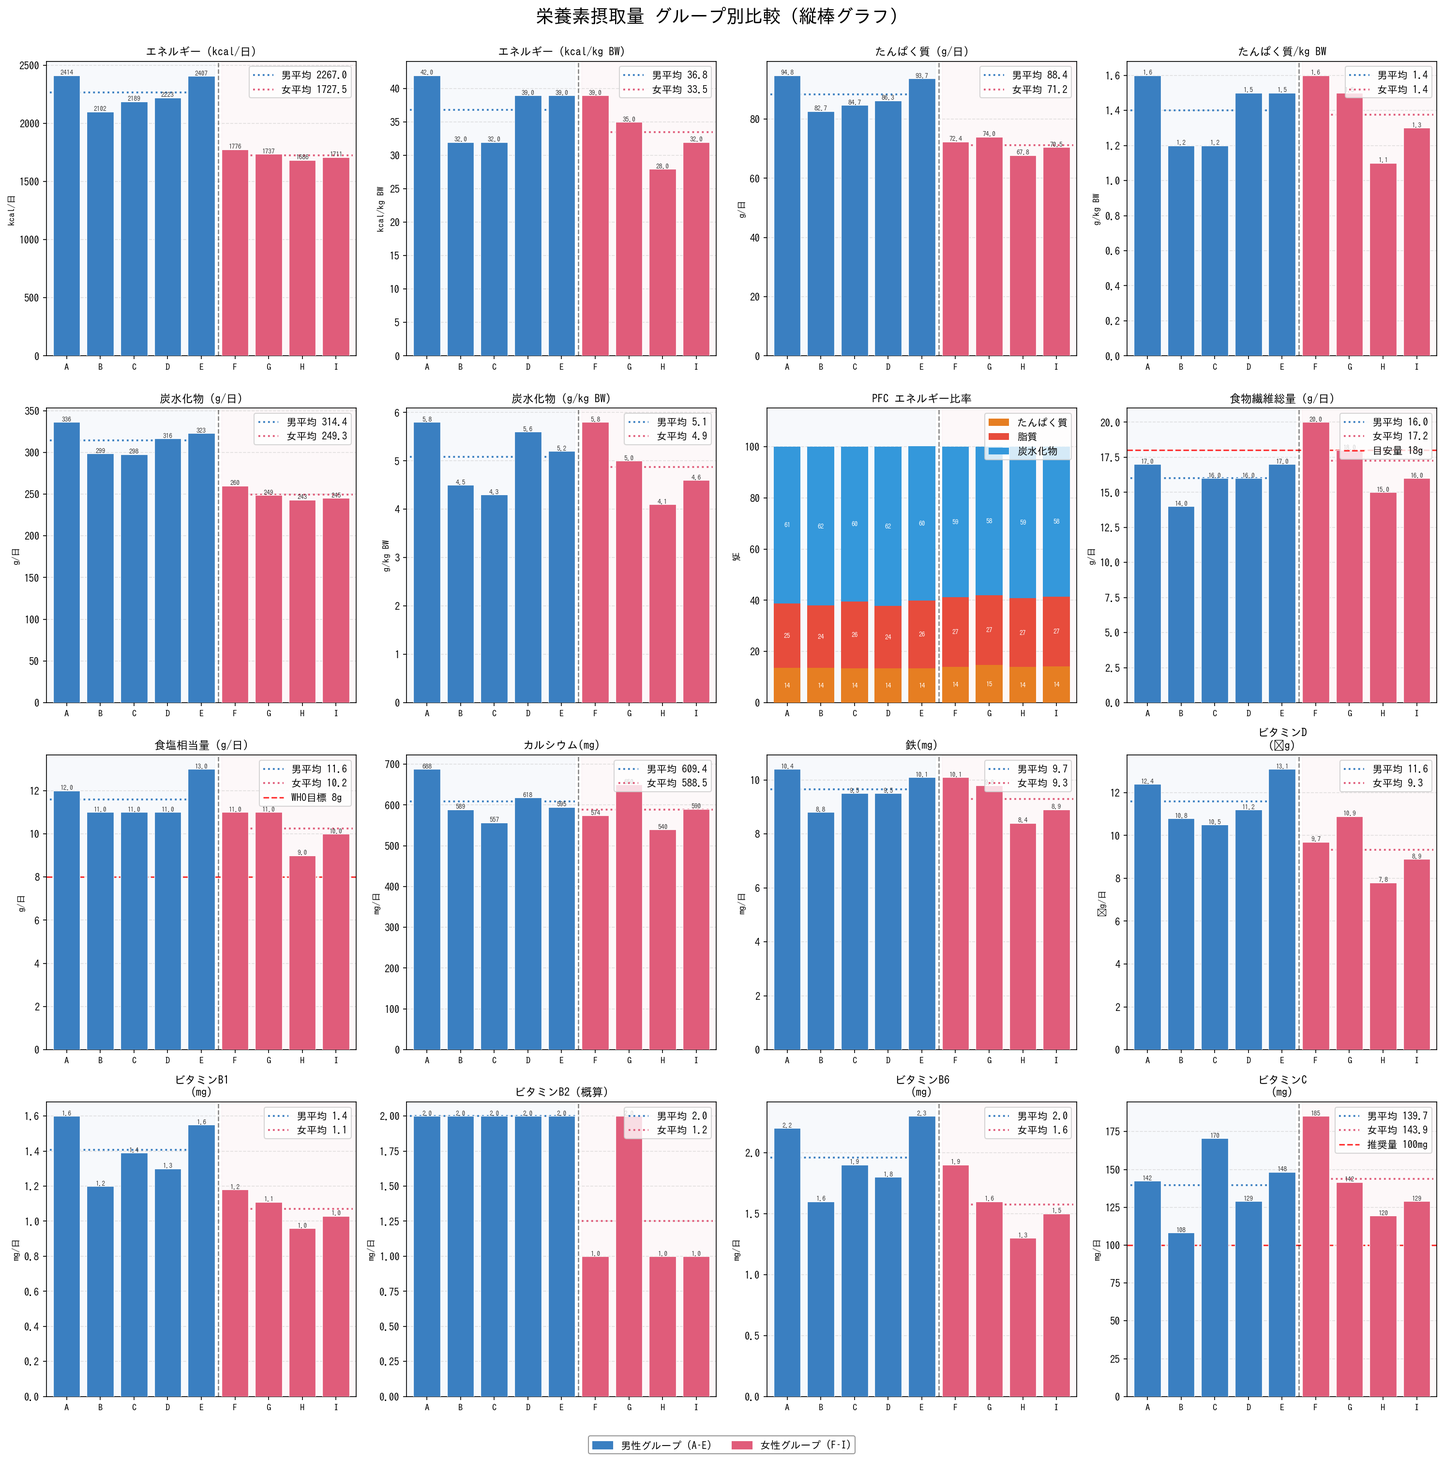
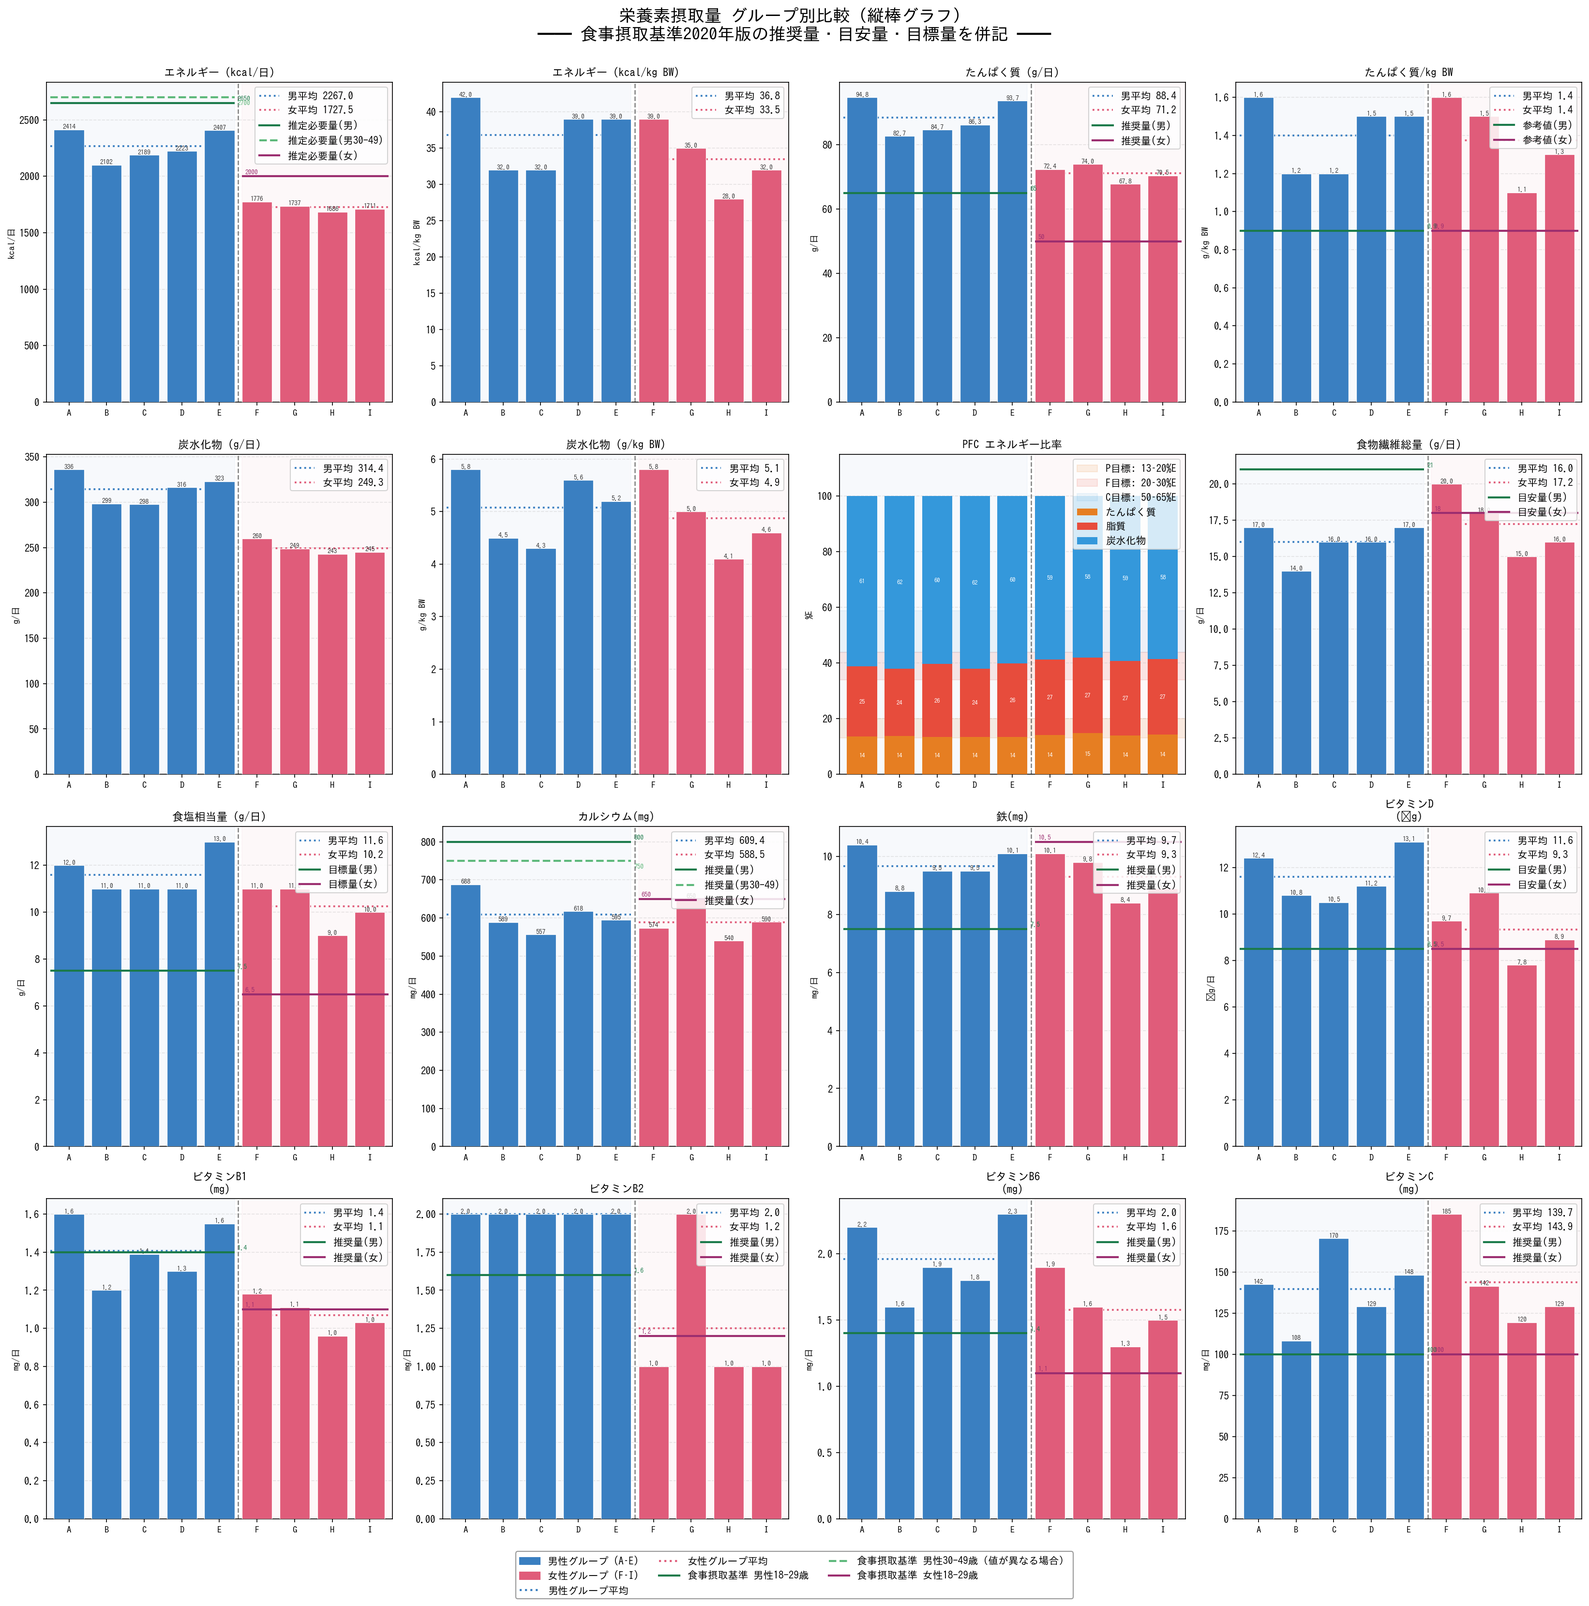
Add dietary reference intake (DRI 2020) lines to 16-item chart
- New "食事摂取基準" sheet in legends.xlsx with all DRI values
- Green lines: male 18-29y reference; dashed lighter green: male 30-49y
  (only shown when value differs from 18-29y, e.g. calcium 800→750mg)
- Purple lines: female 18-29y reference
- PFC panel: target range bands (P:13-20%E, F:20-30%E, C:50-65%E)
- All values editable via legends.xlsx

https://claude.ai/code/session_01AVgnxSoyf9YpGa1dQKwayT

diff --git a/visualize3.py b/visualize3.py
@@ -1,11 +1,12 @@
 """
 visualize3.py  ─  指定16項目の縦棒グラフ（4×4グリッド）
-凡例・ラベルは legends.xlsx から読み込みます。
+凡例・ラベル・食事摂取基準値は legends.xlsx から読み込みます。
 """
 import matplotlib
 matplotlib.use('Agg')
 import matplotlib.pyplot as plt
 import matplotlib.patches as mpatches
+import matplotlib.lines as mlines
 import numpy as np
 import openpyxl
 from matplotlib import font_manager
@@ -44,6 +45,79 @@ for row in ws_l2.iter_rows(min_row=2, values_only=True):
     if row[0]:
         L2[str(row[0])] = row[1]
 
+# ── 食事摂取基準 読み込み ────────────────────────────────────
+# col: キー, 単位, 種別, m18, m30, f18, f30, lbl_m, lbl_f
+ws_dri = wb["食事摂取基準"]
+DRI = {}  # key -> {m18, m30, f18, f30, type, lbl_m, lbl_f}
+for row in ws_dri.iter_rows(min_row=3, values_only=True):
+    if row[0] and str(row[0]).startswith("※") is False:
+        DRI[str(row[0])] = {
+            "m18": row[3], "m30": row[4],
+            "f18": row[5], "f30": row[6],
+            "type": row[2] or "",
+            "lbl_m": row[7] or "",
+            "lbl_f": row[8] or "",
+        }
+
+# DRI参照線を描画するヘルパー
+# 男性ゾーン: x = -0.5〜4.4, 女性ゾーン: x = 4.6〜8.5
+CDRI_M = '#1A7A4A'   # 男性DRI: 深緑
+CDRI_F = '#9B2D6F'   # 女性DRI: 深紫
+CDRI_M30 = '#5CB87A' # 男性DRI 30-49y: 薄緑
+
+def draw_dri(ax, dri_key, legend_handles):
+    """DRIシートから値を読み、対応する参照線を描く。"""
+    if dri_key not in DRI:
+        return
+    d = DRI[dri_key]
+    m18, m30 = d["m18"], d["m30"]
+    f18,  _  = d["f18"], d["f30"]
+    lbl_m, lbl_f = d["lbl_m"], d["lbl_f"]
+
+    drawn = []
+
+    # 男性 18-29y 参照線
+    if m18 is not None:
+        ax.hlines(m18, -0.5, 4.4, colors=CDRI_M, lw=2.0, ls='-', zorder=4)
+        ax.annotate(f'{m18}', xy=(4.4, m18), xytext=(3, 2),
+                    textcoords='offset points', fontsize=6.5,
+                    color=CDRI_M, fontproperties=fp, fontweight='bold')
+        if lbl_m and lbl_m not in [h.get_label() for h in legend_handles]:
+            legend_handles.append(
+                mlines.Line2D([], [], color=CDRI_M, lw=2, ls='-',
+                              label=lbl_m))
+
+    # 男性 30-49y 参照線（18-29yと異なる場合のみ）
+    if m30 is not None and m30 != m18:
+        ax.hlines(m30, -0.5, 4.4, colors=CDRI_M30, lw=2.0, ls='--', zorder=4)
+        ax.annotate(f'{m30}', xy=(4.4, m30), xytext=(3, -8),
+                    textcoords='offset points', fontsize=6.5,
+                    color=CDRI_M30, fontproperties=fp, fontweight='bold')
+        lbl_m30 = lbl_m.replace('(男)', '(男30-49)') if lbl_m else '男30-49推奨量'
+        if lbl_m30 not in [h.get_label() for h in legend_handles]:
+            legend_handles.append(
+                mlines.Line2D([], [], color=CDRI_M30, lw=2, ls='--',
+                              label=lbl_m30))
+
+    # 女性 18-29y 参照線
+    if f18 is not None:
+        ax.hlines(f18, 4.6, 8.5, colors=CDRI_F, lw=2.0, ls='-', zorder=4)
+        ax.annotate(f'{f18}', xy=(4.6, f18), xytext=(3, 2),
+                    textcoords='offset points', fontsize=6.5,
+                    color=CDRI_F, fontproperties=fp, fontweight='bold')
+        if lbl_f and lbl_f not in [h.get_label() for h in legend_handles]:
+            legend_handles.append(
+                mlines.Line2D([], [], color=CDRI_F, lw=2, ls='-',
+                              label=lbl_f))
+
+
+# PFC DRI範囲（目標量）
+PFC_DRI = {
+    'P': (13, 20),   # %E
+    'F': (20, 30),
+    'C': (50, 65),
+}
+
 # ── データ ──────────────────────────────────────────────────
 energy     = {'m':[2414,2102,2189,2223,2407], 'f':[1776,1737,1686,1711]}
 energy_kg  = {'m':[42,32,32,39,39],           'f':[39,35,28,32]}
@@ -64,43 +138,45 @@ vitB2_raw  = {'m':[2,2,2,2,2],                 'f':[1,2,1,1]}
 vitB6      = {'m':[2.2,1.6,1.9,1.8,2.3],      'f':[1.9,1.6,1.3,1.5]}
 vitC       = {'m':[142.5,108.3,170.5,129.0,148.3],'f':[185.3,141.6,119.5,129.1]}
 
-# ── 各パネルの定義 ──────────────────────────────────────────
-# (データ辞書, タイトル, Y軸ラベル, 参照値, 参照ラベル, パネル種別)
-# 種別: 'bar' or 'pfc'
+# (データ, タイトル, Y軸ラベル, DRIキー, 種別)
 panels = [
-    (energy,     NL.get("エネルギー",    "エネルギー"),       "kcal/日",    None,  None,           "bar"),
-    (energy_kg,  NL.get("エネルギー_kg", "エネルギー/kg BW"), "kcal/kg BW", None,  None,           "bar"),
-    (protein,    NL.get("たんぱく質",    "たんぱく質"),       "g/日",       None,  None,           "bar"),
-    (protein_kg, "たんぱく質/kg BW",                          "g/kg BW",    None,  None,           "bar"),
-    (carb,       NL.get("炭水化物",      "炭水化物"),         "g/日",       None,  None,           "bar"),
-    (carb_kg,    NL.get("炭水化物_kg",   "炭水化物/kg BW"),   "g/kg BW",    None,  None,           "bar"),
-    (None,       "PFC エネルギー比率",                         "%E",         None,  None,           "pfc"),
-    (fiber,      NL.get("食物繊維総量",  "食物繊維総量"),     "g/日",       18.0,  "目安量 18g",   "bar"),
-    (salt,       NL.get("食塩相当量",    "食塩相当量"),       "g/日",       8.0,   "WHO目標 8g",   "bar"),
-    (calcium,    NL.get("カルシウム",    "カルシウム"),       "mg/日",      None,  None,           "bar"),
-    (iron,       NL.get("鉄",           "鉄"),               "mg/日",      None,  None,           "bar"),
-    (vitD,       NL.get("ビタミンD",    "ビタミンD"),        "µg/日",      None,  None,           "bar"),
-    (vitB1,      NL.get("ビタミンB1",   "ビタミンB1"),       "mg/日",      None,  None,           "bar"),
-    (vitB2_raw,  NL.get("ビタミンB2",   "ビタミンB2 (概算)"),"mg/日",      None,  None,           "bar"),
-    (vitB6,      NL.get("ビタミンB6",   "ビタミンB6"),       "mg/日",      None,  None,           "bar"),
-    (vitC,       NL.get("ビタミンC",    "ビタミンC"),        "mg/日",      100.0, "推奨量 100mg", "bar"),
+    (energy,     NL.get("エネルギー",    "エネルギー"),       "kcal/日",   "エネルギー",       "bar"),
+    (energy_kg,  NL.get("エネルギー_kg", "エネルギー/kg BW"), "kcal/kg BW","エネルギー_kg",    "bar"),
+    (protein,    NL.get("たんぱく質",    "たんぱく質"),       "g/日",      "たんぱく質",       "bar"),
+    (protein_kg, "たんぱく質/kg BW",                          "g/kg BW",   "たんぱく質/kg BW", "bar"),
+    (carb,       NL.get("炭水化物",      "炭水化物"),         "g/日",      "炭水化物",         "bar"),
+    (carb_kg,    NL.get("炭水化物_kg",   "炭水化物/kg BW"),   "g/kg BW",   "炭水化物_kg",      "bar"),
+    (None,       "PFC エネルギー比率",                         "%E",        "PFC",              "pfc"),
+    (fiber,      NL.get("食物繊維総量",  "食物繊維総量"),     "g/日",      "食物繊維総量",     "bar"),
+    (salt,       NL.get("食塩相当量",    "食塩相当量"),       "g/日",      "食塩相当量",       "bar"),
+    (calcium,    NL.get("カルシウム",    "カルシウム"),       "mg/日",     "カルシウム",       "bar"),
+    (iron,       NL.get("鉄",           "鉄"),               "mg/日",     "鉄",               "bar"),
+    (vitD,       NL.get("ビタミンD",    "ビタミンD"),        "µg/日",     "ビタミンD",        "bar"),
+    (vitB1,      NL.get("ビタミンB1",   "ビタミンB1"),       "mg/日",     "ビタミンB1",       "bar"),
+    (vitB2_raw,  NL.get("ビタミンB2",   "ビタミンB2"),       "mg/日",     "ビタミンB2",       "bar"),
+    (vitB6,      NL.get("ビタミンB6",   "ビタミンB6"),       "mg/日",     "ビタミンB6",       "bar"),
+    (vitC,       NL.get("ビタミンC",    "ビタミンC"),        "mg/日",     "ビタミンC",        "bar"),
 ]
 
 # ── 描画 ─────────────────────────────────────────────────────
-fig, axes = plt.subplots(4, 4, figsize=(20, 20))
-fig.suptitle("栄養素摂取量 グループ別比較（縦棒グラフ）",
-             fontproperties=fp, fontsize=18, fontweight='bold', y=0.995)
+fig, axes = plt.subplots(4, 4, figsize=(22, 22))
+fig.suptitle("栄養素摂取量 グループ別比較（縦棒グラフ）\n"
+             "━━ 食事摂取基準2020年版の推奨量・目安量・目標量を併記 ━━",
+             fontproperties=fp, fontsize=17, fontweight='bold', y=0.998)
 
 x = np.arange(9)
 xtick_labels = [parts_info[p]["label"] for p in all_parts]
-
 avg_lbl_m = L2.get("avg_male_label", "男平均")
 avg_lbl_f = L2.get("avg_female_label", "女平均")
 
-for ax, (dat, title, ylabel, ref, ref_lbl, kind) in zip(axes.flat, panels):
+# 全体共通DRI凡例ハンドル（重複排除）
+global_dri_handles = []
+
+for ax, (dat, title, ylabel, dri_key, kind) in zip(axes.flat, panels):
+
+    panel_dri_handles = []
 
     if kind == "pfc":
-        # ── PFC 積み上げ棒グラフ ──
         p_vals = prot_pct['m'] + prot_pct['f']
         f_vals = fat_pct['m']  + fat_pct['f']
         c_vals = carb_pct['m'] + carb_pct['f']
@@ -111,23 +187,38 @@ for ax, (dat, title, ylabel, ref, ref_lbl, kind) in zip(axes.flat, panels):
         ax.bar(x, c_vals, bottom=[p+f for p,f in zip(p_vals,f_vals)],
                color='#3498DB', label=L2.get("label_carb", "炭水化物"), zorder=3)
         for i, (p, f, c) in enumerate(zip(p_vals, f_vals, c_vals)):
-            ax.text(i, p/2,     f'{p:.0f}', ha='center', va='center', fontsize=6.5,
+            ax.text(i, p/2,     f'{p:.0f}', ha='center', va='center', fontsize=6,
                     color='white', fontweight='bold')
-            ax.text(i, p+f/2,   f'{f:.0f}', ha='center', va='center', fontsize=6.5,
+            ax.text(i, p+f/2,   f'{f:.0f}', ha='center', va='center', fontsize=6,
                     color='white', fontweight='bold')
-            ax.text(i, p+f+c/2, f'{c:.0f}', ha='center', va='center', fontsize=6.5,
+            ax.text(i, p+f+c/2, f'{c:.0f}', ha='center', va='center', fontsize=6,
                     color='white', fontweight='bold')
         ax.set_ylim(0, 115)
-        ax.legend(prop=fp, fontsize=7, loc='upper right', ncol=1)
+
+        # PFC目標量の範囲を着色
+        # P: 0〜p_val の積み上げ範囲で13-20%Eを示す帯
+        ax.axhspan(PFC_DRI['P'][0], PFC_DRI['P'][1], xmin=0, xmax=1,
+                   color='#E67E22', alpha=0.12, zorder=0,
+                   label=f"P目標: {PFC_DRI['P'][0]}–{PFC_DRI['P'][1]}%E")
+        p_bottom = [np.mean(prot_pct['m']+prot_pct['f'])]*2
+        f_lo = [p_bottom[0]+PFC_DRI['F'][0]]*2
+        f_hi = [p_bottom[0]+PFC_DRI['F'][1]]*2
+        ax.axhspan(f_lo[0], f_hi[0], color='#E74C3C', alpha=0.12, zorder=0,
+                   label=f"F目標: {PFC_DRI['F'][0]}–{PFC_DRI['F'][1]}%E")
+        c_lo = f_hi[0]
+        c_hi = c_lo + (PFC_DRI['C'][1] - PFC_DRI['C'][0])
+        # C帯は上部（目安）
+        ax.axhspan(c_lo, min(c_hi, 110), color='#3498DB', alpha=0.08, zorder=0,
+                   label=f"C目標: {PFC_DRI['C'][0]}–{PFC_DRI['C'][1]}%E")
+
+        ax.legend(prop=fp, fontsize=6.5, loc='upper right', ncol=1)
         ax.axvline(4.5, color='black', lw=1.2, ls='--', alpha=0.5)
 
     else:
-        # ── 通常縦棒 ──
         vals = dat['m'] + dat['f']
         bars = ax.bar(x, vals, color=gender_color, zorder=3,
                       edgecolor='white', linewidth=0.6)
 
-        # 数値ラベル（バー上部）
         for bar, v in zip(bars, vals):
             ax.text(bar.get_x() + bar.get_width()/2, bar.get_height(),
                     f'{v:.1f}' if v < 100 else f'{v:.0f}',
@@ -140,11 +231,20 @@ for ax, (dat, title, ylabel, ref, ref_lbl, kind) in zip(axes.flat, panels):
         ax.hlines(mu_f,  4.6, 8.5, colors=CF, lw=1.8, ls=':',
                   label=f'{avg_lbl_f} {mu_f:.1f}')
 
-        if ref is not None:
-            ax.axhline(ref, color='red', lw=1.5, ls='--', alpha=0.8, label=ref_lbl)
+        # ── 食事摂取基準の参照線 ──
+        draw_dri(ax, dri_key, panel_dri_handles)
 
-        ax.legend(prop=fp, fontsize=7, loc='upper right')
+        # 凡例（グループ平均 + DRI）
+        handles, labels = ax.get_legend_handles_labels()
+        all_handles = handles + panel_dri_handles
+        ax.legend(handles=all_handles, prop=fp, fontsize=6.5,
+                  loc='upper right', framealpha=0.85)
         ax.axvline(4.5, color='black', lw=1.2, ls='--', alpha=0.5)
+
+        # 全体凡例用に追加（ラベル重複排除）
+        for h in panel_dri_handles:
+            if h.get_label() not in [g.get_label() for g in global_dri_handles]:
+                global_dri_handles.append(h)
 
     # 共通設定
     ax.set_xticks(x)
@@ -152,21 +252,30 @@ for ax, (dat, title, ylabel, ref, ref_lbl, kind) in zip(axes.flat, panels):
     ax.set_ylabel(ylabel, fontproperties=fp, fontsize=9)
     ax.set_title(title, fontproperties=fp, fontsize=11, fontweight='bold', pad=6)
     ax.set_xlim(-0.6, 8.6)
-    ax.grid(axis='y', ls='--', alpha=0.35, zorder=0)
+    ax.grid(axis='y', ls='--', alpha=0.3, zorder=0)
     ax.set_axisbelow(True)
-
-    # 男性/女性ゾーン背景（薄色）
     ax.axvspan(-0.6, 4.4, alpha=0.04, color=CM, zorder=0)
     ax.axvspan(4.6, 8.6,  alpha=0.04, color=CF, zorder=0)
 
-# 全体凡例（性別）
+# ── 全体凡例（図の下部） ─────────────────────────────────────
 m_patch = mpatches.Patch(color=CM, label='男性グループ (A–E)')
 f_patch = mpatches.Patch(color=CF, label='女性グループ (F–I)')
-fig.legend(handles=[m_patch, f_patch], prop=fp, fontsize=12,
-           loc='lower center', ncol=2, bbox_to_anchor=(0.5, -0.005),
-           frameon=True, edgecolor='gray')
+m_avg   = mlines.Line2D([], [], color=CM, lw=2, ls=':', label='男性グループ平均')
+f_avg   = mlines.Line2D([], [], color=CF, lw=2, ls=':', label='女性グループ平均')
 
-fig.tight_layout(rect=[0, 0.02, 1, 0.995])
+# DRI凡例（重複なし）
+dri_legend_items = [
+    mlines.Line2D([], [], color=CDRI_M,   lw=2, ls='-',  label='食事摂取基準 男性18-29歳'),
+    mlines.Line2D([], [], color=CDRI_M30, lw=2, ls='--', label='食事摂取基準 男性30-49歳（値が異なる場合）'),
+    mlines.Line2D([], [], color=CDRI_F,   lw=2, ls='-',  label='食事摂取基準 女性18-29歳'),
+]
+
+all_legend = [m_patch, f_patch, m_avg, f_avg] + dri_legend_items
+fig.legend(handles=all_legend, prop=fp, fontsize=10,
+           loc='lower center', ncol=3, bbox_to_anchor=(0.5, -0.002),
+           frameon=True, edgecolor='gray', fancybox=True)
+
+fig.tight_layout(rect=[0, 0.035, 1, 0.997])
 out_path = '/home/user/AK/fig_16items.png'
 fig.savefig(out_path, dpi=150, bbox_inches='tight')
 plt.close(fig)

diff --git a/create_legends_excel.py b/create_legends_excel.py
@@ -204,5 +204,67 @@ for i, r in enumerate(nutr_labels, 2):
     write_row(ws5, i, r, even=(i % 2 == 0))
 set_col_widths(ws5, [20, 28, 10, 24])
 
+# ═══════════════════════════════════════════════════════════
+# シート6: 食事摂取基準（2020年版）
+# ═══════════════════════════════════════════════════════════
+ws6 = wb.create_sheet("食事摂取基準")
+
+# タイトル行
+title_cell = ws6.cell(row=1, column=1,
+    value="食事摂取基準 2020年版（推奨量／目安量／目標量）　※空欄＝基準値なし・値を変更する場合はこのシートを編集してください")
+title_cell.font = Font(bold=True, size=10, color="1F4E79")
+ws6.merge_cells("A1:I1")
+
+write_header(ws6, 2, [
+    "栄養素キー", "単位", "種別",
+    "男性 18-29歳", "男性 30-49歳",
+    "女性 18-29歳", "女性 30-49歳",
+    "凡例ラベル（男性）", "凡例ラベル（女性）",
+])
+ws6.row_dimensions[2].height = 22
+
+# (キー, 単位, 種別, m18, m30, f18, f30, lbl_m, lbl_f)
+dri_rows = [
+    ("エネルギー",     "kcal/日", "推定必要量",  2650,  2700,  2000,  2050,
+     "推定必要量(男)", "推定必要量(女)"),
+    ("エネルギー_kg",  "kcal/kg", "参考値",      None,  None,  None,  None,
+     "",               ""),
+    ("たんぱく質",     "g/日",    "推奨量",       65,    65,    50,    50,
+     "推奨量(男)",     "推奨量(女)"),
+    ("たんぱく質/kg BW","g/kg",   "参考値",      0.9,   0.9,   0.9,   0.9,
+     "参考値(男)",     "参考値(女)"),
+    ("炭水化物",       "g/日",    "目標量(%E換算)",None, None,  None,  None,
+     "",               ""),
+    ("炭水化物_kg",    "g/kg",    "目標量(%E換算)",None, None,  None,  None,
+     "",               ""),
+    ("PFC",            "%E",      "目標量（下限）", None, None, None, None,
+     "",               ""),
+    ("食物繊維総量",   "g/日",    "目安量",       21,    21,    18,    18,
+     "目安量(男)",     "目安量(女)"),
+    ("食塩相当量",     "g/日",    "目標量(未満)",  7.5,   7.5,   6.5,   6.5,
+     "目標量(男)",     "目標量(女)"),
+    ("カルシウム",     "mg/日",   "推奨量",       800,   750,   650,   650,
+     "推奨量(男)",     "推奨量(女)"),
+    ("鉄",             "mg/日",   "推奨量",        7.5,   7.5,  10.5,  10.5,
+     "推奨量(男)",     "推奨量(女)"),
+    ("ビタミンD",      "µg/日",   "目安量",        8.5,   8.5,   8.5,   8.5,
+     "目安量(男)",     "目安量(女)"),
+    ("ビタミンB1",     "mg/日",   "推奨量",        1.4,   1.4,   1.1,   1.1,
+     "推奨量(男)",     "推奨量(女)"),
+    ("ビタミンB2",     "mg/日",   "推奨量",        1.6,   1.6,   1.2,   1.2,
+     "推奨量(男)",     "推奨量(女)"),
+    ("ビタミンB6",     "mg/日",   "推奨量",        1.4,   1.4,   1.1,   1.1,
+     "推奨量(男)",     "推奨量(女)"),
+    ("ビタミンC",      "mg/日",   "推奨量",       100,   100,   100,   100,
+     "推奨量(男)",     "推奨量(女)"),
+]
+for i, r in enumerate(dri_rows, 3):
+    write_row(ws6, i, r, even=(i % 2 == 0))
+
+add_note(ws6, 20, 1,
+    "※ エネルギー推定必要量はPAL II（ふつう）の値。たんぱく質/kg BW の参考値は EAR 算定基礎値（0.9g/kg）。"
+    "炭水化物は目標量が 50〜65%E のため g/日換算なし。")
+set_col_widths(ws6, [20, 10, 16, 14, 14, 14, 14, 18, 18])
+
 wb.save('/home/user/AK/legends.xlsx')
 print("legends.xlsx saved")
